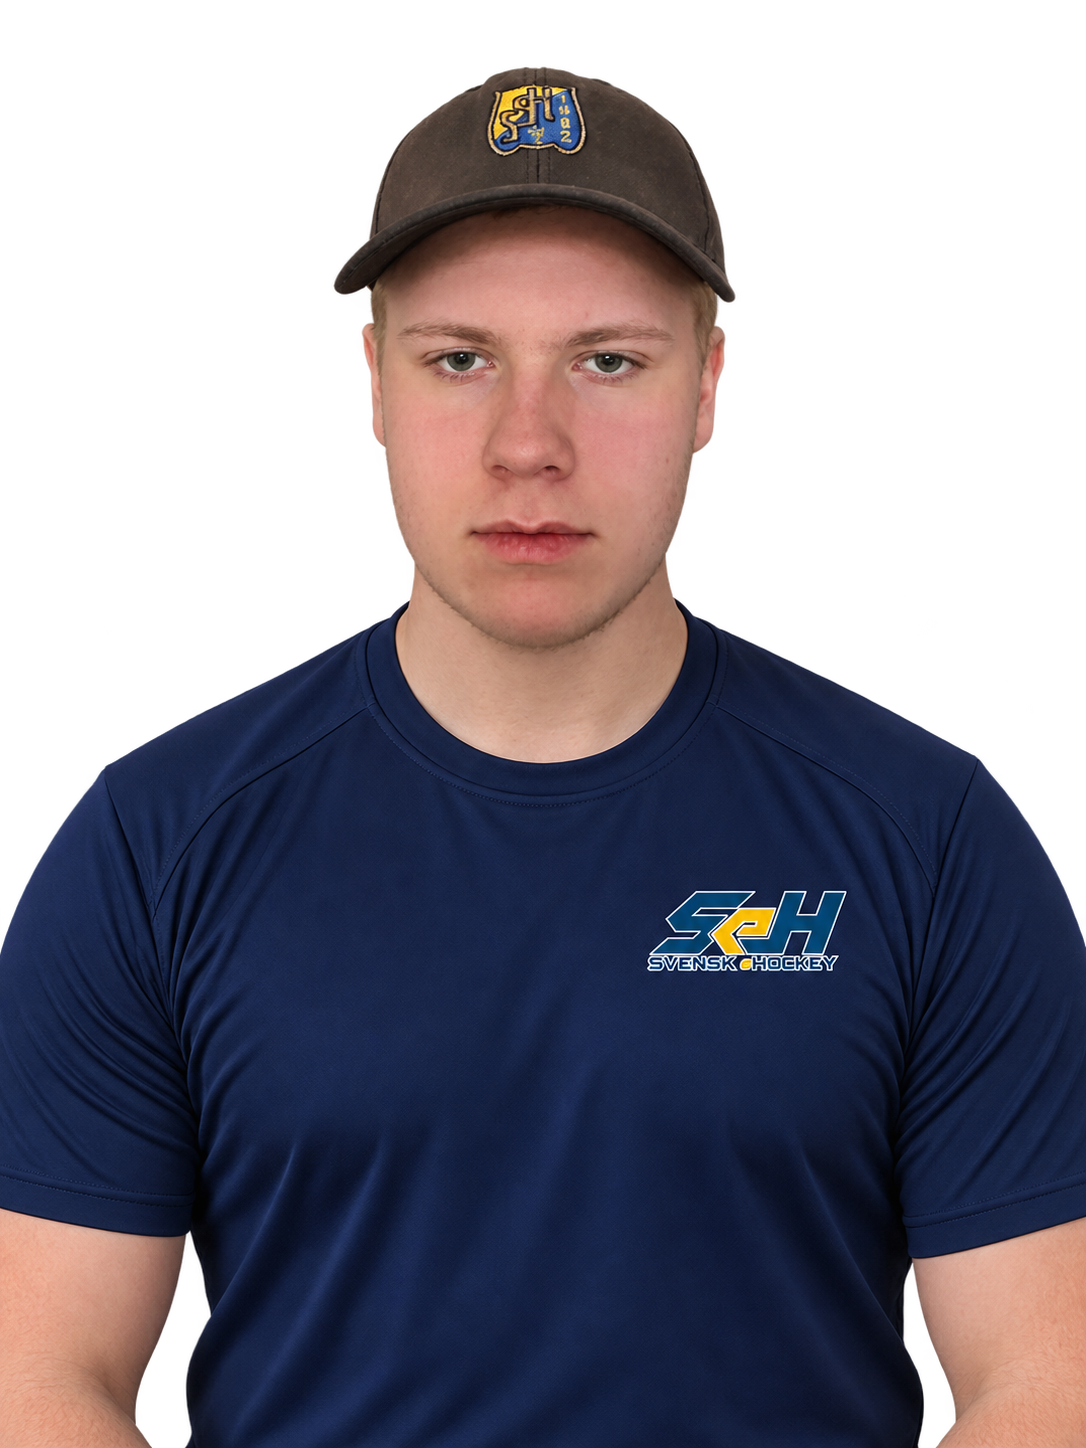
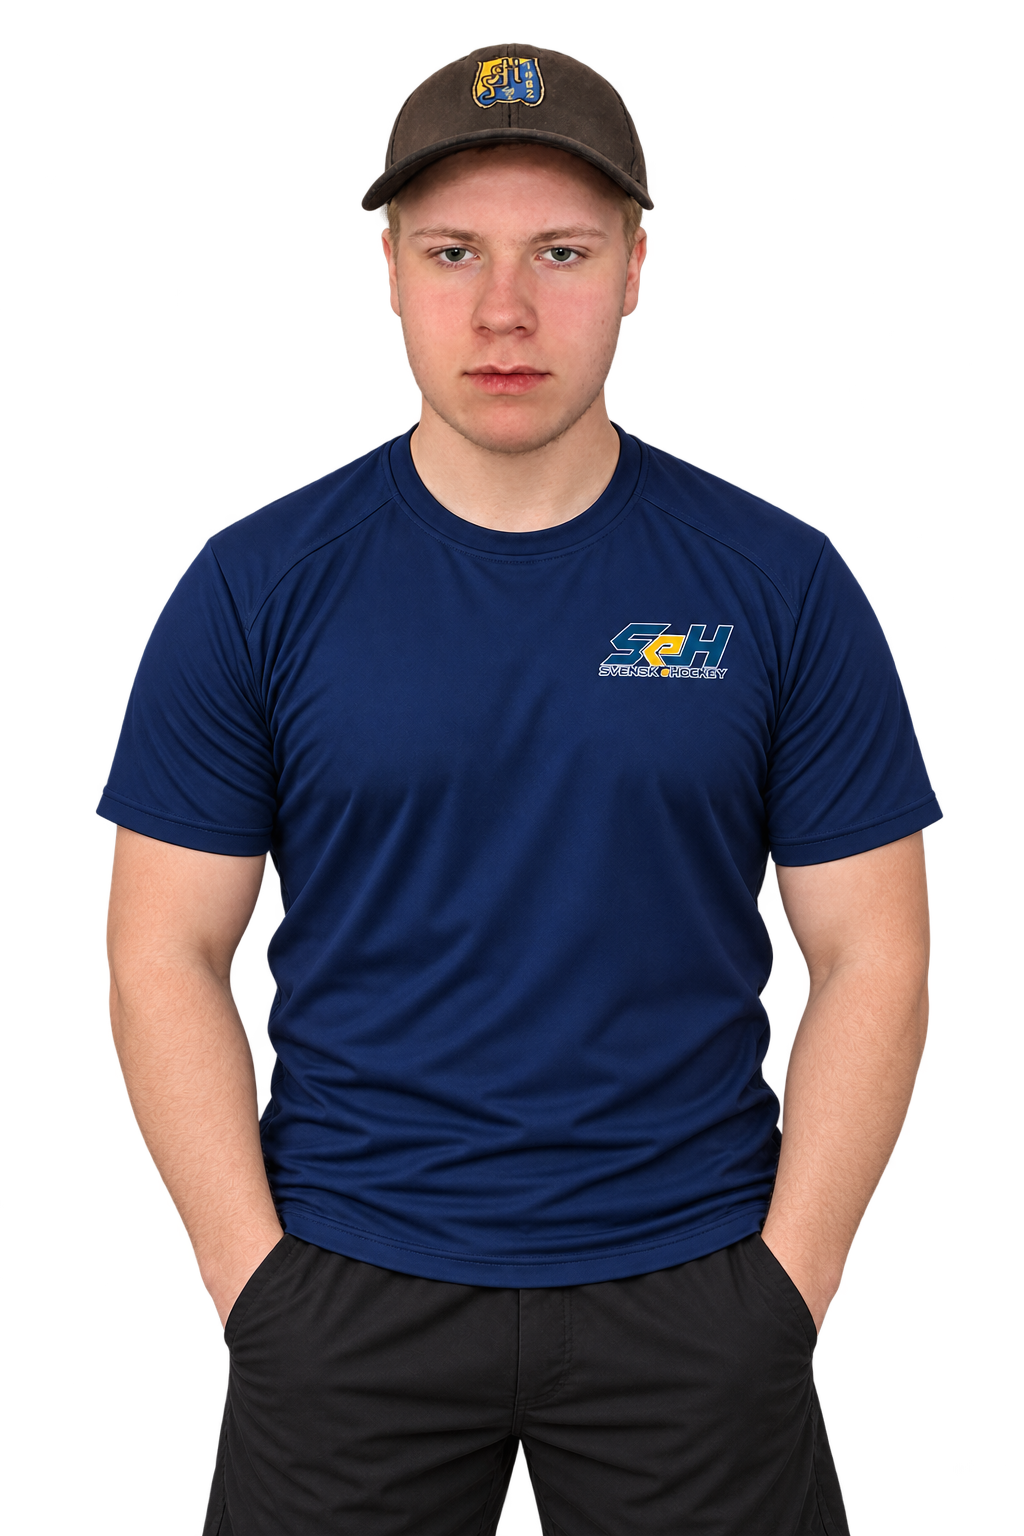
Publish latest Swedish and Canadian portraits

diff --git a/playerimages-manifest.js b/playerimages-manifest.js
@@ -1,5 +1,7 @@
 /* Generated from the files in /players. Update this list when portraits are added. */
 window.SEH_PLAYER_IMAGE_FILES = Object.freeze([
+  "6493.png",
+  "4013.png",
   "11761.png",
   "14209.png",
   "16128.png",
